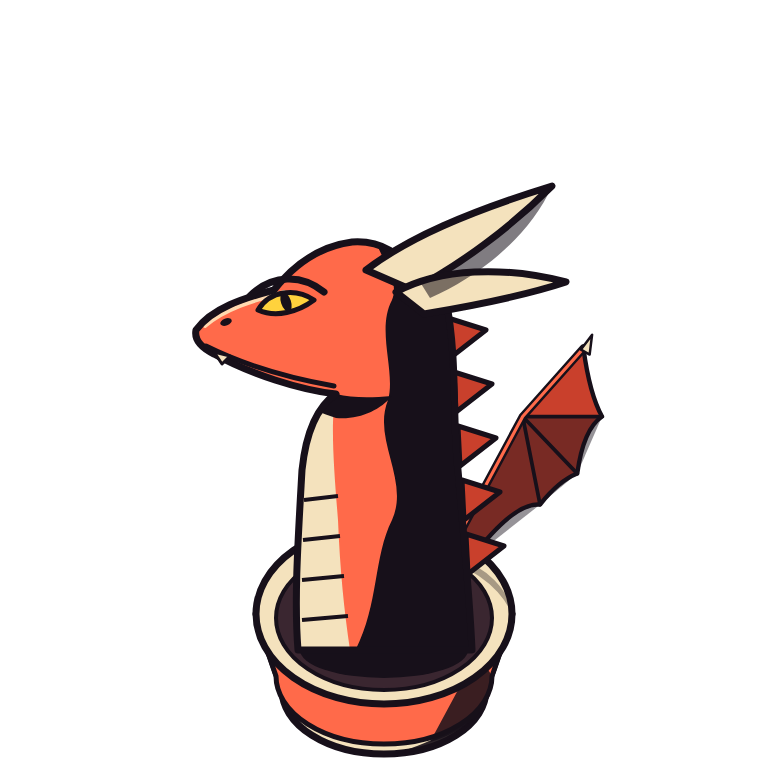
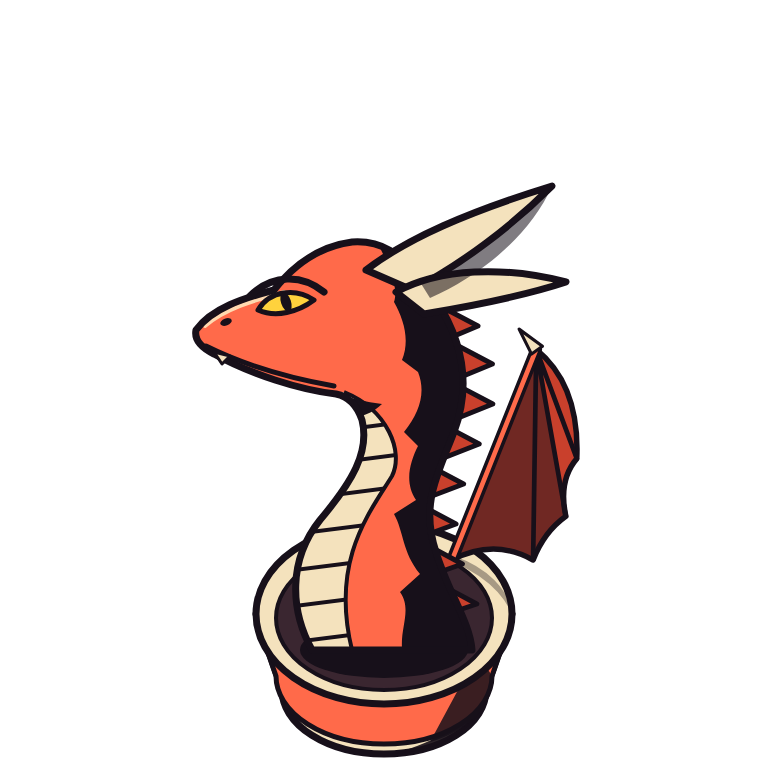
art-src: 龍 v2 — S 形脖子、摺起來的蝙蝠翼、後頸黑影切成鋸齒
Claude-Session: https://claude.ai/code/session_01YcRvipXLdSARSXJBNmnAqn

Changed region(s): [[0.375, 0.375, 0.7812, 0.8438]]

diff --git a/art-src/dragon/build.js b/art-src/dragon/build.js
@@ -19,8 +19,14 @@ const cup = () => `
 const plinth = `<ellipse cx="384" cy="650" rx="84" ry="28" fill="${INK}"/>`;
 
 /* ── 頭部（側面朝左）共用的輪廓 ── */
-const HEAD = 'M196,330 C212,308 244,298 274,290 C296,262 322,246 352,242 C380,240 404,254 414,278 L446,300 C458,360 452,420 458,470 C464,540 470,600 472,650 L298,650 C294,600 298,540 302,470 C306,432 318,406 336,394 C300,390 250,374 214,354 C202,348 194,340 196,330 Z';
-const NECK_SPINES = [[452, 318], [458, 372], [462, 426], [466, 480], [470, 534]].map(([x, y]) => `<path d="M${x - 4},${y} L${x + 34},${y + 12} L${x - 2},${y + 40} Z" fill="${RED2}" stroke="${INK}" stroke-width="5" stroke-linejoin="round"/>`).join('');
+// 頭 + S 形脖子：胸口往前挺 → 脖子中段往後收 → 頭再往前探
+const HEAD = 'M196,330 C212,308 244,298 274,290 C296,262 322,246 352,242 C380,240 404,254 414,278 L436,300 '
+  + 'C462,340 472,384 454,432 C438,474 420,504 436,552 C448,592 470,622 472,650 '
+  + 'L312,650 C290,610 288,560 320,520 C352,482 370,452 362,420 C356,402 346,396 336,394 '
+  + 'C300,390 250,374 214,354 C202,348 194,340 196,330 Z';
+const BELLY = 'M312,650 C290,610 288,560 320,520 C352,482 370,452 362,420 C356,402 346,396 336,394 L344,392 C388,410 404,452 392,476 C370,512 330,560 352,650 Z';
+const NECK_SPINES = [[446, 322], [462, 360], [464, 400], [452, 440], [438, 480], [432, 520], [440, 560], [456, 600]]
+  .map(([x, y], i) => { const s = 1 - i * 0.05; return `<path d="M${x - 6},${y - 16 * s} L${x + 32 * s},${y + 4} L${x - 6},${y + 20 * s} Z" fill="${RED2}" stroke="${INK}" stroke-width="5" stroke-linejoin="round"/>`; }).join('');
 const horn = (d, w = OL) => `<path d="${d}" fill="${CREAM}" stroke="${INK}" stroke-width="${w}" stroke-linejoin="round"/>`;
 const hornShadow = (d) => `<path d="${d}" fill="${INK}" opacity=".55"/>`;
 
@@ -29,12 +35,14 @@ function head({ clipId, eyeScale = 1, mouth = 'smile' }) {
   <clipPath id="${clipId}"><path d="${HEAD}"/></clipPath>
   <path d="${HEAD}" fill="${RED}"/>
   <g clip-path="url(#${clipId})">
-    <!-- 腹甲（喉嚨前側）-->
-    <path d="M300,650 C296,600 300,540 304,470 C306,432 318,406 336,394 C330,420 334,470 338,520 C340,570 344,610 350,650 Z" fill="${CREAM}"/>
-    <path d="M304,500 L338,496 M303,540 L340,536 M302,580 L344,576 M302,620 L348,616" stroke="${INK}" stroke-width="4"/>
-    <!-- 大黑影：右側與下顎底下 -->
-    <path d="M372,232 L430,240 L470,300 L470,660 L350,660 C380,610 372,560 392,520 C410,480 372,440 388,400 C396,372 376,330 392,300 C400,280 382,262 372,232 Z" fill="${INK}"/>
-    <path d="M336,394 C300,390 250,374 214,354 C230,374 290,402 336,418 C360,420 380,410 392,396 C370,398 352,398 336,394 Z" fill="${INK}"/>
+    <!-- 腹甲（沿著 S 形的喉嚨與胸口）-->
+    <clipPath id="${clipId}b"><path d="${BELLY}"/></clipPath>
+    <path d="${BELLY}" fill="${CREAM}"/>
+    <g clip-path="url(#${clipId}b)" stroke="${INK}" stroke-width="4">${[430, 462, 494, 528, 564, 600, 636].map(y => `<path d="M280,${y + 8} L420,${y - 10}"/>`).join('')}</g>
+    <path d="M344,392 C388,410 404,452 392,476 C370,512 330,560 352,650" fill="none" stroke="${INK}" stroke-width="4"/>
+    <!-- 大黑影：沿著後頸，邊緣切成有節奏的鋸齒（不是一整根柱子）-->
+    <path d="M372,232 L480,232 L480,660 L404,660 C396,632 414,612 400,592 L420,574 C402,552 404,532 394,514 L416,500 C404,482 410,462 418,446 L404,432 C420,412 426,392 418,372 L402,360 C410,340 404,320 394,302 C400,284 384,256 372,232 Z" fill="${INK}"/>
+    <path d="M336,394 C300,390 250,374 214,354 C230,374 290,402 336,418 C356,420 372,414 382,404 C366,402 350,398 336,394 Z" fill="${INK}"/>
     <!-- 鼻梁亮線 -->
     <path d="M205,326 C226,308 256,300 284,292" fill="none" stroke="#ffd9b0" stroke-width="4" stroke-linecap="round"/>
   </g>
@@ -51,23 +59,23 @@ function head({ clipId, eyeScale = 1, mouth = 'smile' }) {
   <path d="M214,352 L222,364 L230,356 Z" fill="${CREAM}" stroke="${INK}" stroke-width="3" stroke-linejoin="round"/>`;
 }
 
-/* ── 翅膀（摺起來的蝙蝠翼，在頸後）：肩 S → 腕 W → 翼尖 T，三根翼指，扇形翼膜 ── */
-const WING = { S: [452, 548], W: [566, 336], T: [664, 226], F1: [694, 336], F2: [654, 428], F3: [594, 478], B: [482, 566] };
-function wing(k = 1) {                                   // k：大小（以肩為中心縮放）
-  const { S, W, T, F1, F2, F3, B } = WING, P = (q) => q.join(',');
-  const mem = `M${P(S)} L${P(W)} L${P(T)} Q674,300 ${P(F1)} Q664,356 ${P(F2)} Q624,440 ${P(F3)} Q552,474 ${P(B)} Z`;
+/* ── 翅膀：摺起來的蝙蝠翼（像收起的傘）。肩 S → 前臂往上到腕 W（最高點、有拇爪）→ 三根翼指往下收，翼膜下緣是內凹的扇貝 ── */
+const WING = { S: [452, 560], W: [560, 290], F1: [612, 430], F2: [598, 504], F3: [556, 560] };
+function wing(k = 1) {
+  const { S, W, F1, F2, F3 } = WING, P = (q) => q.join(',');
+  const mem = `M${P(S)} L${P(W)} Q616,336 ${P(F1)} Q588,458 ${P(F2)} Q570,524 ${P(F3)} Q506,532 ${P(S)} Z`;
   return `<g transform="translate(${S[0]} ${S[1]}) scale(${k}) translate(${-S[0]} ${-S[1]})">
     <path d="${mem}" fill="${RED2}" stroke="${INK}" stroke-width="${OL}" stroke-linejoin="round"/>
-    <path d="M${P(W)} L${P(F1)} L${P(F2)} L${P(F3)} L${P(B)} L${P(S)} Z" fill="${INK}" opacity=".45"/>
+    <path d="M${P(W)} L${P(F2)} Q570,524 ${P(F3)} Q506,532 ${P(S)} Z" fill="${INK}" opacity=".5"/>
     <path d="M${P(W)} L${P(F1)} M${P(W)} L${P(F2)} M${P(W)} L${P(F3)}" stroke="${INK}" stroke-width="6" stroke-linecap="round"/>
-    <path d="M${P(S)} L${P(W)} L${P(T)}" fill="none" stroke="${INK}" stroke-width="13" stroke-linecap="round" stroke-linejoin="round"/>
-    <path d="M${P(S)} L${P(W)} L${P(T)}" fill="none" stroke="${RED}" stroke-width="5" stroke-linecap="round" stroke-linejoin="round"/>
-    <path d="M${T[0] - 4},${T[1] + 2} L${T[0] + 14},${T[1] - 22} L${T[0] + 10},${T[1] + 10} Z" fill="${CREAM}" stroke="${INK}" stroke-width="4" stroke-linejoin="round"/></g>`;
+    <path d="M${P(S)} L${P(W)}" stroke="${INK}" stroke-width="15" stroke-linecap="round"/>
+    <path d="M${P(S)} L${P(W)}" stroke="${RED}" stroke-width="6" stroke-linecap="round"/>
+    <path d="M${W[0] - 6},${W[1] + 6} L${W[0] - 22},${W[1] - 26} L${W[0] + 8},${W[1] - 4} Z" fill="${CREAM}" stroke="${INK}" stroke-width="4" stroke-linejoin="round"/></g>`;
 }
 const HORN_A = 'M366,270 C408,238 468,212 552,186 C512,226 462,264 412,290 Z';
 const HORN_B = 'M396,292 C440,268 504,266 566,282 C524,296 472,306 424,314 Z';
 
-const t3 = () => `${cup()}${plinth}${wing(0.62)}${NECK_SPINES}${head({ clipId: 'c3' })}${horn(HORN_A)}${horn(HORN_B)}${hornShadow('M420,282 C470,258 520,226 552,186 C530,236 480,276 430,298 Z')}`;
+const t3 = () => `${cup()}${plinth}${wing(0.78)}${NECK_SPINES}${head({ clipId: 'c3' })}${horn(HORN_A)}${horn(HORN_B)}${hornShadow('M420,282 C470,258 520,226 552,186 C530,236 480,276 430,298 Z')}`;
 
 /* ── t1 剛出生：蛋殼 + 小龍頭 + 兩隻小角 ── */
 const t1 = () => {
@@ -101,7 +109,7 @@ const crown = `
     <path d="M372,200 L398,246 L428,214 L440,268 L402,270 Z" fill="${GOLD2}"/>
     <rect x="296" y="262" width="150" height="20" rx="6" fill="${GOLD}" stroke="${INK}" stroke-width="6"/>
     <path d="M372,196 L372,140 M352,160 L392,160" stroke="${INK}" stroke-width="24" stroke-linecap="round"/><path d="M372,196 L372,140 M352,160 L392,160" stroke="${GOLD}" stroke-width="13" stroke-linecap="round"/></g>`;
-const t6 = () => `${cup()}${plinth}${wing(1.0)}${NECK_SPINES}${head({ clipId: 'c6' })}${horn(HORN_A.replace('M366,270', 'M370,266'))}${crown}
+const t6 = () => `${cup()}${plinth}${wing(1.12)}${NECK_SPINES}${head({ clipId: 'c6' })}${horn(HORN_A.replace('M366,270', 'M370,266'))}${crown}
   <path d="M330,560 L384,540 L438,560 L430,610 L384,632 L338,610 Z" fill="${GOLD}" stroke="${INK}" stroke-width="6" stroke-linejoin="round" transform="translate(-14 0)"/>
   <path d="M384,540 L438,560 L430,610 L384,632 Z" fill="${GOLD2}" transform="translate(-14 0)"/>
   <circle cx="370" cy="590" r="12" fill="${RED}" stroke="${INK}" stroke-width="4"/>`;
